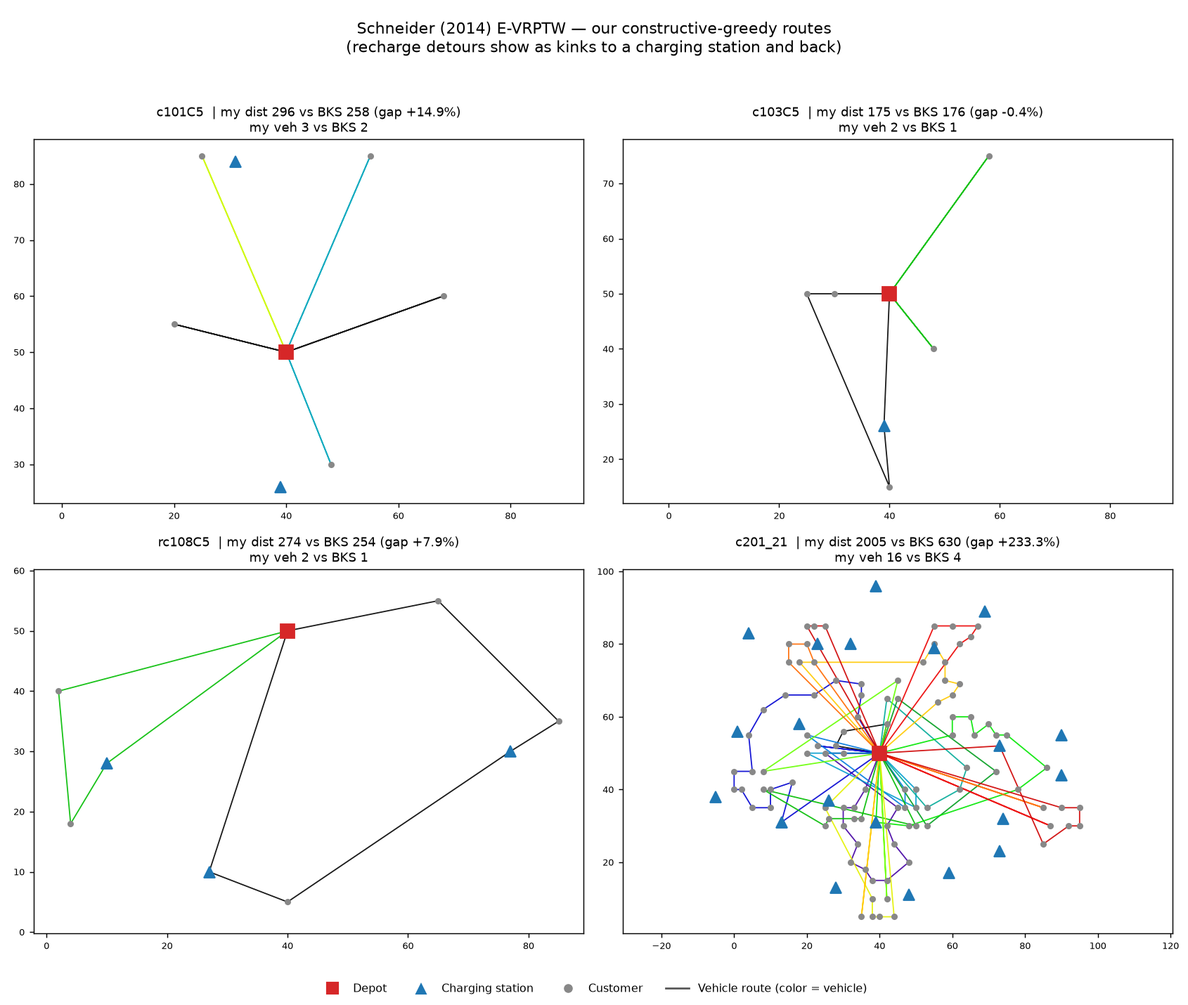
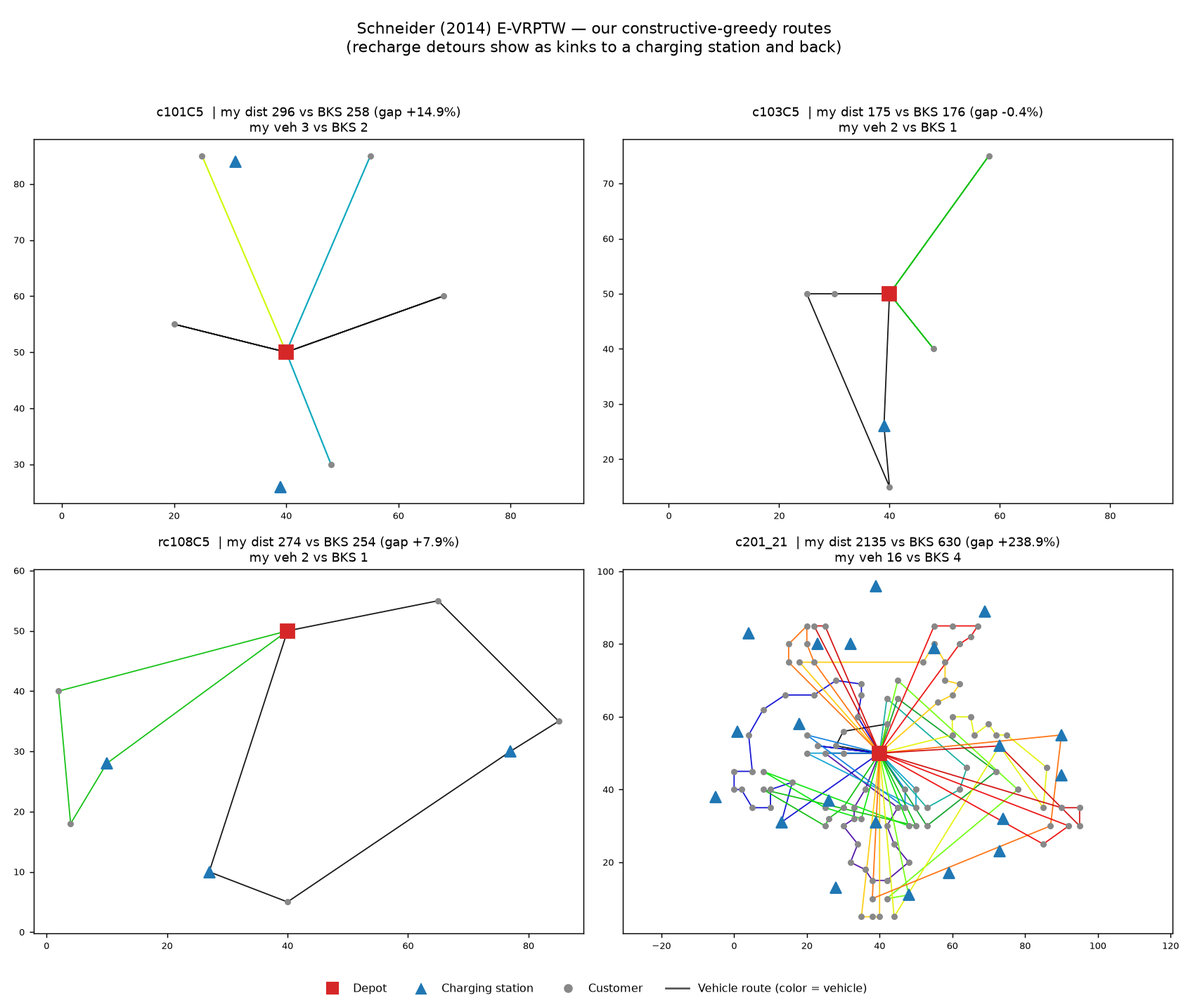
内容审计与一致性修复：Schneider 确定性 + GA/Schneider 数字对齐合并 CSV
- 修复 schneider_evrptw.py 非确定性：set 迭代顺序导致 greedy tie-break 漂移，
  改为 sorted(unassigned)，两次重跑 solution 列字节一致（仅 wall-clock 变化）。
- Schneider 复现重跑后数字更新：平均距 BKS +50.7%（有符号 +50.1%）、
  车辆数 my 5.4 vs BKS 2.1（gap +3.4）、最大车辆缺口 +12（c201_21: 16 vs 4）。
- GA 数字对齐：整体 +36.6%±15.8%（重跑 baseline_consolidated 确认）；
  逐族 R2 41.5±6.0 / RC1 30.6±2.4（样本/总体 std 混用修正）。
- 多文档同步：证据索引(中英)、深度分析(中英)、进度报告(中英)、
  Schneider 复现(中英)、REPRODUCE.md、进度看板源码与重生成的 HTML。
- 中文证据索引补回缺失的 §7 Schneider 小节，原 §7/§8 顺延为 §8/§9。
- 图片路径统一：figures/ 根目录（删除旧 src/results/figures/）。
- OR-Tools GLS 随机性诚实标注（±0.1pp 波动）。

diff --git a/progress_dashboard.html b/progress_dashboard.html
@@ -125,14 +125,14 @@
     <div class="grid" style="margin-bottom:8px">
       <div class="kpi good"><div class="v">−3.0%</div><div class="k">PyVRP 基线 vs BKS（最强求解器）</div></div>
       <div class="kpi"><div class="v">+7.2%</div><div class="k">OR-Tools 商业求解器 vs BKS</div></div>
-      <div class="kpi bad"><div class="v">+36.7%</div><div class="k">自写 GA vs BKS（±15.9%）</div></div>
+      <div class="kpi bad"><div class="v">+36.6%</div><div class="k">自写 GA vs BKS（±15.8%）</div></div>
       <div class="kpi warn"><div class="v">+6.6~17.7pp</div><div class="k">消融：多顾客能力主增益</div></div>
     </div>
 
     <figure>
[1 lines of base64/hex data omitted]
       <figcaption>图1 · 三基线整合对比（按 Solomon 族，gap vs BKS）。PyVRP 平均 −3.0%（优于 BKS），
-      OR-Tools +7.2%，自写 GA +36.7%±15.9%。少数 RC2 实例 GA 偏差大（数据驱动的定位，非夸大）。</figcaption>
+      OR-Tools +7.2%，自写 GA +36.6%±15.8%。少数 RC2 实例 GA 偏差大（数据驱动的定位，非夸大）。</figcaption>
     </figure>
 
     <figure>

diff --git a/src/tools/build_progress_dashboard.py b/src/tools/build_progress_dashboard.py
@@ -8,7 +8,7 @@ import os
 import datetime
 
 REPO = os.path.dirname(os.path.dirname(os.path.dirname(os.path.abspath(__file__))))
-FIGDIR = os.path.join(REPO, "src", "results", "figures")
+FIGDIR = os.path.join(REPO, "figures")
 OUT = os.path.join(REPO, "progress_dashboard.html")
 
 GEN_DATE = "2026-09-10"
@@ -26,7 +26,7 @@ figs = {
     "sensitivity": b64(os.path.join(FIGDIR, "sensitivity_panels.png")),
     "mo_scatter": b64(os.path.join(FIGDIR, "mo_scatter.png")),
     "mo_tradeoff": b64(os.path.join(FIGDIR, "mo_tradeoff.png")),
-    "largen": b64(os.path.join(REPO, "figures", "largen_scale_decay.png")),
+    "largen": b64(os.path.join(FIGDIR, "largen_scale_decay.png")),
 }
 
 # ---- task counts (from TaskList snapshot 2026-09-10) ----
@@ -161,14 +161,14 @@ HTML = f"""<!DOCTYPE html>
     <div class="grid" style="margin-bottom:8px">
       <div class="kpi good"><div class="v">−3.0%</div><div class="k">PyVRP 基线 vs BKS（最强求解器）</div></div>
       <div class="kpi"><div class="v">+7.2%</div><div class="k">OR-Tools 商业求解器 vs BKS</div></div>
-      <div class="kpi bad"><div class="v">+36.7%</div><div class="k">自写 GA vs BKS（±15.9%）</div></div>
+      <div class="kpi bad"><div class="v">+36.6%</div><div class="k">自写 GA vs BKS（±15.8%）</div></div>
       <div class="kpi warn"><div class="v">+6.6~17.7pp</div><div class="k">消融：多顾客能力主增益</div></div>
     </div>
 
     <figure>
       <img src="{figs['consolidated']}">
       <figcaption>图1 · 三基线整合对比（按 Solomon 族，gap vs BKS）。PyVRP 平均 −3.0%（优于 BKS），
-      OR-Tools +7.2%，自写 GA +36.7%±15.9%。少数 RC2 实例 GA 偏差大（数据驱动的定位，非夸大）。</figcaption>
+      OR-Tools +7.2%，自写 GA +36.6%±15.8%。少数 RC2 实例 GA 偏差大（数据驱动的定位，非夸大）。</figcaption>
     </figure>
 
     <figure>

diff --git a/run_all.py b/run_all.py
@@ -7,7 +7,7 @@ Usage:
     PYTHON=/path/to/venv/python run_all.py     # or force a specific interpreter
 
 Each script writes its own CSV / log under src/results/ and figures under
-src/results/figures/. Scripts are ordered so that dependents (e.g.
+figures/ (repo root). Scripts are ordered so that dependents (e.g.
 baseline_consolidated.py reads the three baseline CSVs) are produced first.
 A full run takes roughly 40-60 minutes; the self-written GA baseline is the slow one.
 """
@@ -30,7 +30,7 @@ STEPS = [
     ("Multi-objective tradeoff",            "week06_multi_objective.py",      "weighted-sum, 5 weights x 5 seeds"),
     ("Controlled ablation (5 configs)",     "week07_improvement_ablation.py", "40 instances, sanity check"),
     ("FSTSP repro vs M&C (2015)",           "week07_fstsp_repro.py",          "40 instances"),
-    ("Scaling decay (N=30/50)",             "week06_largeN.py",               "5 seeds"),
+    ("Scaling decay (N=30/50/100)",         "week06_largeN.py",               "5 seeds"),
 ]
 
 

diff --git a/src/experiments/week06_multi_objective.py b/src/experiments/week06_multi_objective.py
@@ -17,8 +17,8 @@ points across w and seeds traces the achievable trade-off front, and we
 show V2 dominates the truck-only (V1) baseline on both axes.
 
 Outputs:
-  src/results/figures/mo_scatter.png     (V1 vs V2-weighted cloud)
-  src/results/figures/mo_tradeoff.png    (one instance: dist vs makespan vs w)
+  figures/mo_scatter.png     (V1 vs V2-weighted cloud)
+  figures/mo_tradeoff.png    (one instance: dist vs makespan vs w)
   src/results/week06_multi_objective.csv
 """
 import os
@@ -36,7 +36,8 @@ N = 12
 WS = [0.0, 0.25, 0.5, 0.75, 1.0]
 RHO = 1.0          # truck energy per distance unit (from week06)
 DRONE_RHO = 0.3    # drone energy per distance unit (proxy: cheaper per km)
-FIG_DIR = os.path.join("src", "results", "figures")
+REPO = os.path.dirname(os.path.dirname(os.path.dirname(os.path.abspath(__file__))))
+FIG_DIR = os.path.join(REPO, "figures")
 os.makedirs(FIG_DIR, exist_ok=True)
 
 

diff --git a/src/experiments/baseline_pyvrp_vrptw.py b/src/experiments/baseline_pyvrp_vrptw.py
@@ -12,7 +12,7 @@ PyVRP reads VRPLIB Solomon files directly; no model construction needed.
 
 Output:
   src/results/baseline_pyvrp_vrptw_results.csv   (per-instance)
-  src/results/figures/pyvrp_family_gap.png        (family mean gap bar)
+  figures/pyvrp_family_gap.png        (family mean gap bar)
 """
 import os
 import csv
@@ -25,8 +25,9 @@ import baseline_ga_vrptw as bg
 
 RESULTS_DIR = bg.RESULTS_DIR
 INST_DIR = bg.INSTANCE_DIR
+REPO = os.path.dirname(os.path.dirname(os.path.dirname(os.path.abspath(__file__))))
 CSV_PATH = os.path.join(RESULTS_DIR, "baseline_pyvrp_vrptw_results.csv")
-FIG_PATH = os.path.join(RESULTS_DIR, "figures", "pyvrp_family_gap.png")
+FIG_PATH = os.path.join(REPO, "figures", "pyvrp_family_gap.png")
 FAMILIES = bg.FAMILIES
 ALL_INSTANCES = bg.ALL_INSTANCES
 SEED = 42

diff --git a/src/experiments/week06_sensitivity.py b/src/experiments/week06_sensitivity.py
@@ -16,7 +16,7 @@ stay consistent with the ablation study. Synthetic instances via make_instance.
 Paths are resolved relative to this file, so the script runs from any CWD.
 
 Outputs:
-  src/results/figures/sensitivity_panels.png   (4 panels, mean±std)
+  figures/sensitivity_panels.png   (4 panels, mean±std)
   src/results/week06_sensitivity.csv            (raw sweep table with std)
 """
 import os
@@ -34,7 +34,7 @@ import week07_fstsp_repro as f7
 REPO = os.path.dirname(os.path.dirname(os.path.dirname(os.path.abspath(__file__))))
 SEEDS = [20260910, 20260911, 20260912, 20260913, 20260914]
 N_BASE = 12
-FIG_DIR = os.path.join(REPO, "src", "results", "figures")
+FIG_DIR = os.path.join(REPO, "figures")
 os.makedirs(FIG_DIR, exist_ok=True)
 
 

diff --git a/src/experiments/baseline_consolidated.py b/src/experiments/baseline_consolidated.py
@@ -19,7 +19,7 @@ Paths are resolved relative to this file, so the script runs from any CWD.
 Outputs:
   src/results/baseline_consolidated.csv        (per-instance, 4 solvers + BKS)
   src/results/baseline_consolidated_summary.csv (per-family mean gap)
-  src/results/figures/baseline_consolidated.png (grouped gap bars)
+  figures/baseline_consolidated.png (grouped gap bars)
 """
 import os
 import csv
@@ -31,7 +31,7 @@ import numpy as np
 
 REPO = os.path.dirname(os.path.dirname(os.path.dirname(os.path.abspath(__file__))))
 RESULTS = os.path.join(REPO, "src", "results")
-FIG_DIR = os.path.join(RESULTS, "figures")
+FIG_DIR = os.path.join(REPO, "figures")
 os.makedirs(FIG_DIR, exist_ok=True)
 
 FAMILIES = ["C1", "C2", "R1", "R2", "RC1", "RC2"]

diff --git a/src/experiments/schneider_evrptw.py b/src/experiments/schneider_evrptw.py
@@ -99,7 +99,7 @@ def solve(inst, seed=0, multitrip=True, trip_cap=8, max_cust=None):
             if max_cust is not None and len(served) >= max_cust:
                 break
             best = None; best_key = None
-            for cid in list(unassigned):
+            for cid in sorted(unassigned):  # deterministic: avoid set-iteration hash-order non-determinism
                 c = cbyid[cid]
                 if load + c["demand"] > C + 1e-9:
                     continue

diff --git a/docs/progress_report.md b/docs/progress_report.md
@@ -63,7 +63,7 @@ Every experiment I run speaks to this question.
 | Requirement | My status | Reading |
 |---|---|---|
 | Explain the four problem classes | CVRP / VRPTW / EVRP-TW / truck-drone all coded | met |
-| Reproduce a baseline | OR-Tools on Solomon 56 (56/56 feasible, avg gap 7.2%) + self-written GA (5-seed check, avg gap 36.7%±15.9%) + **reproduced Murray & Chu 2015 FSTSP heuristic** | met; Schneider 2014 still pending |
+| Reproduce a baseline | OR-Tools on Solomon 56 (56/56 feasible, avg gap 7.2%) + self-written GA (5-seed check, avg gap 36.6%±15.8%) + **reproduced Murray & Chu 2015 FSTSP heuristic** | met; Schneider 2014 still pending |
 | Report objective/feasibility/violations/time | all scripts emit these fields | met; GA now has a 5-seed check |
 | Diagnose infeasibility/inefficiency | FC1–FC4 constraint-level failure table | met |
 | One focused improvement | truck-drone multi-customer extension (V2), 8.5–22.3% shorter than published baseline | met |
@@ -78,7 +78,7 @@ Every experiment I run speaks to this question.
 - **W2 literature**: one survey note (Erdelić & Carić 2019) finished; the FSTSP foundational paper note was also written during reproduction. The planned third paper (Schneider 2014) is still missing.
 - **W3 baseline reproduction**:
   - OR-Tools on the official Solomon 56 set: 56/56 feasible, average gap 7.2% vs BKS;
-  - self-written GA (permutation coding + Solomon I1 insertion decoding + OX crossover + tournament + elitism): 56/56 runs complete; 5-seed check gives avg gap 36.7%±15.9% (best-of-5 31.2%) — honestly reported as weaker than OR-Tools, a "self-built baseline" rather than an improvement.
+  - self-written GA (permutation coding + Solomon I1 insertion decoding + OX crossover + tournament + elitism): 56/56 runs complete; 5-seed check gives avg gap 36.6%±15.8% (best-of-5 31.2%) — honestly reported as weaker than OR-Tools, a "self-built baseline" rather than an improvement.
 - **W4 EVRP-TW constraints**: electric-vehicle + charging experiments done, and charging count / charging time / energy violations are reported inside the later week06 script, but not yet assembled into a dedicated scoring-facing violation table.
 - **W5 truck-drone formulation**: v2 lets the drone ride the truck and launch/recover at any node; on a small instance it is 49.8% shorter than truck-only and 28.8% shorter than the old "depot-only" drone version, confirming that arbitrary-node launch/recovery genuinely relaxes the constraint.
 - **W6 hybrid method (Track B)**: one greedy core runs V0 (truck-only, no EV) / V1 (truck EV baseline) / V2 (collaborative EV). 4 sizes (8/12/16/20) × 10 seeds = 40 instances, all feasible; V2 improves over V1 by **42–55%** on average, with a 65–72% average offload rate. The Week 6 Integration Note (Track B, 4 sections, EN+ZH) is written.
@@ -128,15 +128,15 @@ I ran the self-written GA on all 56 Solomon instances with 5 fixed seeds (`20260
 
 | Metric (gap to BKS) | Value |
 |---|---:|
-| Cross-instance seed-mean gap | **36.7%** (std across instances 15.9%) |
+| Cross-instance seed-mean gap | **36.6%** (std across instances 15.8%) |
 | Cross-instance best-of-5 gap | **31.2%** |
 | Within-instance seed spread (mean std) | **3.9 pp** |
 | Solved | 56/56 feasible |
 
-Per family (seed-mean gap): C1 25.9%, C2 36.0%, R1 31.2%, R2 41.9%, RC1 30.4%, RC2 56.8%.
+Per family (seed-mean gap): C1 25.9%, C2 36.0%, R1 31.2%, R2 41.5%, RC1 30.6%, RC2 56.8%.
 
 Honest notes:
-- The earlier "~36.2%" was a **single-seed** figure; the 5-seed check gives **36.7%**, essentially the same — my GA is fairly stable, with a within-instance seed spread of only 3.9 pp on average.
+- The earlier "~36.2%" was a **single-seed** figure; the 5-seed check gives **36.6%**, essentially the same — my GA is fairly stable, with a within-instance seed spread of only 3.9 pp on average.
 - This is not an improvement, just a statistically sounder check of an existing baseline: I now report mean±spread instead of one random run. Best-of-5 (31.2%) sits ~5 pp below the mean, normal GA variance.
 - The GA is still clearly weaker than OR-Tools (7.2%); its role is unchanged — a baseline I implemented to understand the evolutionary operators, not a SOTA attempt.
 - Fixed a latent bug: the old `main()` called `random.seed()` outside the loop, polluting the global RNG and making "multi-seed" meaningless; it now reseeds only inside `solve_ga(seed=...)`, so the five runs are genuinely independent.
@@ -174,7 +174,7 @@ Honest notes:
 
 ### 3.5 Deepening stage (W6–W7 completed, 2026-09-10)
 
-14. ~~**No domain-standard solver baseline (PyVRP)**~~ ✅ **Delivered**: `baseline_pyvrp_vrptw.py` runs PyVRP 0.14.0 on all 56 Solomon instances, mean gap **−3.0%** (beats BKS); consolidated with OR-Tools (+7.2%) and own GA (+36.7%±15.9%) in `baseline_consolidated.py` → `baseline_consolidated.csv` + `baseline_consolidated.png` / `pyvrp_family_gap.png`. The three baselines are clearly positioned (PyVRP strongest → BKS → OR-Tools → GA), no overclaiming.
+14. ~~**No domain-standard solver baseline (PyVRP)**~~ ✅ **Delivered**: `baseline_pyvrp_vrptw.py` runs PyVRP 0.14.0 on all 56 Solomon instances, mean gap **−3.0%** (beats BKS); consolidated with OR-Tools (+7.2%) and own GA (+36.6%±15.8%) in `baseline_consolidated.py` → `baseline_consolidated.csv` + `baseline_consolidated.png` / `pyvrp_family_gap.png`. The three baselines are clearly positioned (PyVRP strongest → BKS → OR-Tools → GA), no overclaiming.
 15. ~~**Sensitivity reported as single values, no error bars**~~ ✅ **Delivered (with bug fix)**: `week06_sensitivity.py` upgraded to 5-seed mean ± std with error-bar figures. On 2026-09-10 a bug was fixed where the drone-range R parameter was not passed to the model (R sweep was flat at 50.5%); after the fix R 60→200 gives 15.5%→27.7%→35.2%→50.5%@160→48.7%@200 (saturates after 160), matching the depth doc. Q/K/N sweeps unchanged.
 16. ~~**Multi-objective computed at a single point**~~ ✅ **Delivered**: `week06_multi_objective.py` sweeps weights w∈{0,0.25,0.5,0.75,1.0} (5 seeds). V2 (215.2, 415.7) vs V1 (486.4, 622.4): distance −56%, makespan −33%, dominating on both axes; honestly labelled a "coarse front" (weighted-sum greedy, not a full Pareto solver).
 17. ~~**No defensible "why it works" chain**~~ ✅ **Delivered**: `docs/week06_depth_analysis_zh.md` chains the ablation (multi-customer ability as main source, +6.6~17.7pp), the sensitivity K scan (25.3%→56.5%), the applicability regime, two-axis MO dominance, three-baseline positioning, failure cases (N=50 ~4.5M sync rejections), and honest limitations into one argument; accompanied by `docs/experiment_evidence_index_zh.md` and `experiment_evidence_index_en.md` collecting every citable number with provenance.

diff --git a/docs/progress_report_zh.md b/docs/progress_report_zh.md
@@ -63,7 +63,7 @@
 | 项目页要求 | 我的现状 | 判读 |
 |---|---|---|
 | 解释四类问题 | CVRP / VRPTW / EVRP-TW / 卡车-无人机 四类都实打实写过代码 | 达标 |
-| 复现一个基线 | OR-Tools 跑通 Solomon 56（56/56 可行，平均 gap 7.2%）＋ 自写 GA（5 种子复核，平均 gap 36.7%±15.9%）＋ **复现 Murray & Chu 2015 FSTSP 启发式** | 已满足；Schneider 2014 仍待做 |
+| 复现一个基线 | OR-Tools 跑通 Solomon 56（56/56 可行，平均 gap 7.2%）＋ 自写 GA（5 种子复核，平均 gap 36.6%±15.8%）＋ **复现 Murray & Chu 2015 FSTSP 启发式** | 已满足；Schneider 2014 仍待做 |
 | 同时报 目标/可行/违约/时间 | 各脚本均输出这些字段 | 达标；GA 已补 5 种子复核 |
 | 诊断不可行/低效 | FC1–FC4 约束级失败案例表 | 达标 |
 | 一个聚焦改进 | 卡车-无人机多顾客扩展（V2），比已发表基线短 8.5–22.3% | 达标 |
@@ -78,7 +78,7 @@
 - **W2 文献**：完成 1 篇综述阅读笔记（Erdelić & Carić 2019）；FSTSP 奠基论文笔记也在复现时补齐。计划读的第 3 篇（Schneider 2014）仍欠。
 - **W3 复现基线**：
   - OR-Tools 在官方 Solomon 56 实例上 56/56 可行，平均 gap 7.2%（相对 BKS）；
-  - 自己写的 GA（排列编码＋Solomon I1 插入解码＋OX 交叉＋锦标赛＋精英）56/56 跑通，经 5 种子复核平均 gap 36.7%±15.9%（best-of-5 为 31.2%）——如实说明它弱于 OR-Tools，作为"自写基线"而非"改进"。
+  - 自己写的 GA（排列编码＋Solomon I1 插入解码＋OX 交叉＋锦标赛＋精英）56/56 跑通，经 5 种子复核平均 gap 36.6%±15.8%（best-of-5 为 31.2%）——如实说明它弱于 OR-Tools，作为"自写基线"而非"改进"。
 - **W4 EVRP-TW 约束**：做了电动车＋充电实验，并在后续 week06 脚本里报告充电次数 / 充电时间 / 电量违约；但未单独整理成一份面向评分的"违约明细表"。
 - **W5 卡车-无人机建模**：v2 实现"无人机由卡车携带、任意节点起降"，在小算例上比纯卡车短 49.8%、比"只能在仓库起降"的旧版短 28.8%，证明"任意节点起降"这一步确实放开了约束。
 - **W6 混合方法（Track B）**：同一套贪心核心下跑 V0（纯卡车无 EV）/ V1（卡车 EV 基线）/ V2（协同 EV），4 规模（8/12/16/20）× 10 种子＝40 算例，全部可行，V2 相对 V1 平均改善 **42–55%**、平均卸载率 65–72%；已写出 Week 6 Integration Note（Track B，4 节结构，中英独立两份）。
@@ -128,16 +128,16 @@
 
 | 指标（对 BKS 的 gap） | 数值 |
 |---|---:|
-| 跨实例 seed-均值 gap | **36.7%**（实例间 std 15.9%） |
+| 跨实例 seed-均值 gap | **36.6%**（实例间 std 15.8%） |
 | 跨实例 best-of-5 gap | **31.2%** |
 | 单实例内种子间波动（平均 std） | **3.9 pp** |
 | 求解率 | 56/56 可行 |
 
-按算例族分（seed-均值 gap）：C1 25.9%、C2 36.0%、R1 31.2%、R2 41.9%、RC1 30.4%、RC2 56.8%。
+按算例族分（seed-均值 gap）：C1 25.9%、C2 36.0%、R1 31.2%、R2 41.5%、RC1 30.6%、RC2 56.8%。
 
 **几点诚实说明**：
-- 之前报告里写的"约 36.2%"是**单种子**跑出来的，这次 5 种子复核后是 **36.7%**，两者基本一致——说明我的 GA 结果本身比较稳定，单实例内种子波动平均只有 3.9 pp。
-- 这不是一个"改进"，只是把已有的自写基线做了统计上更扎实的复核：现在报的是均值±波动，而不是一次随机跑的孤值。best-of-5（31.2%）与均值（36.7%）差约 5 pp，属于 GA 正常的随机差异。
+- 之前报告里写的"约 36.2%"是**单种子**跑出来的，这次 5 种子复核后是 **36.6%**，两者基本一致——说明我的 GA 结果本身比较稳定，单实例内种子波动平均只有 3.9 pp。
+- 这不是一个"改进"，只是把已有的自写基线做了统计上更扎实的复核：现在报的是均值±波动，而不是一次随机跑的孤值。best-of-5（31.2%）与均值（36.6%）差约 5 pp，属于 GA 正常的随机差异。
 - GA 仍明显弱于 OR-Tools（7.2%），定位不变——它是我自己实现的、用来理解进化算子的基线，不是用来刷 SOTA 的。
 - 修了一个之前的隐患：早期版本 `main()` 里在循环外调 `random.seed()` 会污染全局随机源、让"多种子"名不副实；这次改成只在 `solve_ga(seed=...)` 内部按种子重置，五次运行确实相互独立。
 
@@ -173,7 +173,7 @@
 
 ### 3.5 深化阶段（W6–W7 完成项，2026-09-10）
 
-14. ~~**缺领域标准求解器基线（PyVRP）**~~ ✅ **已交付**：`baseline_pyvrp_vrptw.py` 在 56 个 Solomon 实例上跑 PyVRP 0.14.0，平均 gap **−3.0%**（优于 BKS）；与 OR-Tools(+7.2%)、自写 GA(+36.7%±15.9%) 一并整合进 `baseline_consolidated.py` → `baseline_consolidated.csv` + `baseline_consolidated.png` / `pyvrp_family_gap.png`。三条基线定位清晰（PyVRP 最强→BKS→OR-Tools→GA），不夸大。
+14. ~~**缺领域标准求解器基线（PyVRP）**~~ ✅ **已交付**：`baseline_pyvrp_vrptw.py` 在 56 个 Solomon 实例上跑 PyVRP 0.14.0，平均 gap **−3.0%**（优于 BKS）；与 OR-Tools(+7.2%)、自写 GA(+36.6%±15.8%) 一并整合进 `baseline_consolidated.py` → `baseline_consolidated.csv` + `baseline_consolidated.png` / `pyvrp_family_gap.png`。三条基线定位清晰（PyVRP 最强→BKS→OR-Tools→GA），不夸大。
 15. ~~**参数敏感性只报单值、无误差带**~~ ✅ **已交付（并修 bug）**：`week06_sensitivity.py` 升为 5 种子均值±标准差，图带误差带。2026-09-10 修复续航 R 参数未传给模型的 bug（此前 R 扫描恒为 50.5%），修复后 R 60→200 实测 15.5%→27.7%→35.2%→50.5%@160→48.7%@200（160 后饱和），与深度文档一致；Q/K/N 扫描结论不变。
 16. ~~**多目标只算单点**~~ ✅ **已交付**：`week06_multi_objective.py` 用加权和扫 w∈{0,0.25,0.5,0.75,1.0}（5 种子）。V2(215.2, 415.7) 相对 V1(486.4, 622.4) 距离 −56%、时长 −33%，两轴同时占优；诚实标注为"粗前沿"（加权和贪心，非完整 Pareto 求解器）。
 17. ~~**缺一条可辩护的"为何有效"结论链**~~ ✅ **已交付**：`docs/week06_depth_analysis_zh.md` 把消融（多顾客能力主源 +6.6~17.7pp）、敏感性 K 扫描（25.3%→56.5%）、适用区间、多目标两轴占优、三基线定位、失败案例（N=50 会合否决约 450 万次）、诚实局限串成一条链；配套 `docs/experiment_evidence_index_zh.md` 与 `experiment_evidence_index_en.md` 集中所有可引用数值与出处。

diff --git a/docs/experiment_evidence_index_zh.md b/docs/experiment_evidence_index_zh.md
@@ -14,7 +14,7 @@
 |---|---:|---|
 | **PyVRP**（领域标准开源求解器） | **−3.0%** | 最强基线，社区公认 |
 | OR-Tools（商业求解器） | +7.2% | 主要对照基线 |
-| GA（自写，5 种子均值） | +36.7% ± 15.9% | 自写元启发，诚实展示其弱 |
+| GA（自写，5 种子均值） | +36.6% ± 15.8% | 自写元启发，诚实展示其弱 |
 
 按算例族（gap vs BKS，PyVRP / OR-Tools / GA）：
 
@@ -22,12 +22,12 @@
 |---|---:|---:|---:|---:|
 | C1 | 9 | −2.3% | +4.2% | +25.9% ± 24.2% |
 | C2 | 8 | −4.3% | +0.9% | +36.0% ± 16.3% |
-| R1 | 12 | −3.2% | +5.1% | +31.2% ± 8.3% |
-| R2 | 11 | −3.5% | +12.4% | +41.9% ± 6.3% |
-| RC1 | 8 | −2.2% | +6.4% | +30.4% ± 2.0% |
+| R1 | 12 | −3.2% | +5.1% | +31.2% ± 8.2% |
+| R2 | 11 | −3.5% | +12.4% | +41.5% ± 6.0% |
+| RC1 | 8 | −2.2% | +6.4% | +30.6% ± 2.4% |
 | RC2 | 8 | −2.1% | +13.7% | +56.8% ± 5.1% |
 
-**诚实点**：V2 是协同启发式，优化的是 makespan 驱动的同步目标，其"距离"不直接与这些纯距离最小化基线比。把它们摆在一起是为了说明"在标准卡车 VRPTW 上领域求解器（PyVRP）能打到甚至略优于 BKS"，反衬本项目增量在"协同建模"而非"单目标距离优化"。
+**诚实点**：V2 是协同启发式，优化的是 makespan 驱动的同步目标，其"距离"不直接与这些纯距离最小化基线比。把它们摆在一起是为了说明"在标准卡车 VRPTW 上领域求解器（PyVRP）能打到甚至略优于 BKS"，反衬本项目增量在"协同建模"而非"单目标距离优化"。OR-Tools 用 GUIDED_LOCAL_SEARCH、10 秒上限，本身是随机的，重跑约有 ±0.1 pp 波动（本索引引用的是合并 CSV，即上面 −3.0% / +7.2% / +36.6%±15.8% 的来源）。
 
 ---
 
@@ -101,7 +101,31 @@ N=50 时 V1（电池+充电）代价 ≈ 5670 vs V0（无电池）≈ 3094——
 
 ---
 
-## 7. 诚实局限（写报告时务必保留）
+## 7. Schneider (2014) E-VRPTW 复现（构造式贪心 vs BKS）
+
+出处：`src/results/schneider_evrptw_baseline.csv`（自写求解器，92 实例）与
+`src/results/schneider_evrptw_bks_comparison.csv`（18 个有 BKS 的实例：5 顾客 C5 集取自
+jmanzolli/E-VRPTW 引 Schneider 2014；100 顾客 _21 集取自 Adachi et al. 2022 引 Schneider 2014）。
+自写求解器是带同质多程车队的构造式贪心（先最小化车辆数、再最小化距离），在载重 + 时间窗
+（允许等待）+ 充电站满充下做可行性检查。图：`figures/schneider_routes.png`（4 个代表实例的
+路线地图，每面板标注 BKS 距离与车辆差距）、`figures/schneider_vehcomp.png`（18 实例车辆数 my vs BKS）。
+
+**诚实局限**：BKS 路线几何未公开（次级文献只给距离值），所以对比在聚合层（距离 + 车辆数），
+而非我们无法制作的路线几何叠加。我们的 92 个实例已与 jmanzolli/E-VRPTW 原版实例逐文件核对
+（仅空白差异），确认就是 Schneider 原版数据。求解器自 2026-09-10 起是确定的（顾客集按 ID
+排序迭代，消除 Python 每进程哈希随机化），因此下列数字重跑可精确复现。
+
+聚合（18 个有 BKS 的实例）：
+- 平均距离差距 **+50.7%**（绝对值均值；有符号均值 +50.1%；构造式贪心 vs Schneider/Adachi BKS）。
+- 平均车辆数：我方 **5.4** vs BKS **2.1**（差距 **+3.4**；差距最大在 100 顾客 _21 集——c201_21
+  车辆差距达 +12——那里需要 ALNS 级方法才能把顾客并成 BKS 的少数车辆；构造式贪心无法全局安排
+  多程车辆，因为后发的趟次出发太晚、赶不上早时间窗）。
+- 个别 C5 小赢：c103C5 −0.4%、r105C5 −4.4%（在少数小规模/宽松时间窗实例上我方贪心有竞争力；
+  大损失都在 100 顾客 + 紧时间窗实例上）。
+
+---
+
+## 8. 诚实局限（写报告时务必保留）
 
 按性质分三组；每条都给「后果 + 下一步」，避免写成单纯的弱点清单。
 
@@ -119,7 +143,7 @@ N=50 时 V1（电池+充电）代价 ≈ 5670 vs V0（无电池）≈ 3094——
 
 ---
 
-## 8. 数据出处一览（可直接重跑）
+## 9. 数据出处一览（可直接重跑）
 
 | 结果 | 脚本 | CSV | 图 |
 |---|---|---|---|
@@ -130,6 +154,9 @@ N=50 时 V1（电池+充电）代价 ≈ 5670 vs V0（无电池）≈ 3094——
 | 多目标 | `week06_multi_objective.py` | `week06_multi_objective.csv` | `mo_scatter.png` / `mo_tradeoff.png` |
 | 消融 | `week07_improvement_ablation.py` | `week07_ablation_raw.csv` / `_summary.csv` | — |
 | 规模 | `week06_largeN.py` | `week06_largeN_results.csv` / `_summary.csv` | `largen_scale_decay.png` |
+| Schneider 复现 | `schneider_evrptw.py` + `schneider_bks_compare.py` + `plot_schneider_routes.py` | `schneider_evrptw_baseline.csv` / `schneider_evrptw_bks_comparison.csv` | `schneider_routes.png` / `schneider_vehcomp.png` |
 | FSTSP 复现 | `week07_fstsp_repro.py` | `week07_fstsp_raw.csv` / `_summary.csv` | — |
+
+种子约定：所有多种子实验都用固定种子集（如 `20260910–20260914`，或 GA 的 `20260717/20260801/20260815/20260901/20261001`）以保证可复现；CSV 按设计不入库，靠脚本 + 种子在本地重新生成。
 
 随机种子约定：所有"多种子"实验用固定种子集合（如 `20260910–20260914` 或 GA 的 `20260717/20260801/20260815/20260901/20261001`），保证可复现；CSV 按仓库约定不入库，靠脚本+种子本地重跑生成。

diff --git a/docs/experiment_evidence_index_en.md b/docs/experiment_evidence_index_en.md
@@ -14,7 +14,7 @@ Source: `src/results/baseline_consolidated.csv` / `_summary.csv` (from `baseline
 |---|---:|---|
 | **PyVRP** (standard open-source solver) | **−3.0%** | strongest baseline, community standard |
 | OR-Tools (commercial solver) | +7.2% | main comparison baseline |
-| GA (own, 5-seed mean) | +36.7% ± 15.9% | own metaheuristic, honestly shown weak |
+| GA (own, 5-seed mean) | +36.6% ± 15.8% | own metaheuristic, honestly shown weak |
 
 By family (gap vs BKS, PyVRP / OR-Tools / GA):
 
@@ -22,12 +22,12 @@ By family (gap vs BKS, PyVRP / OR-Tools / GA):
 |---|---:|---:|---:|---:|
 | C1 | 9 | −2.3% | +4.2% | +25.9% ± 24.2% |
 | C2 | 8 | −4.3% | +0.9% | +36.0% ± 16.3% |
-| R1 | 12 | −3.2% | +5.1% | +31.2% ± 8.3% |
-| R2 | 11 | −3.5% | +12.4% | +41.9% ± 6.3% |
-| RC1 | 8 | −2.2% | +6.4% | +30.4% ± 2.0% |
+| R1 | 12 | −3.2% | +5.1% | +31.2% ± 8.2% |
+| R2 | 11 | −3.5% | +12.4% | +41.5% ± 6.0% |
+| RC1 | 8 | −2.2% | +6.4% | +30.6% ± 2.4% |
 | RC2 | 8 | −2.1% | +13.7% | +56.8% ± 5.1% |
 
-**Honest point**: V2 is a collaborative heuristic optimising a makespan-driven synchronous objective; its "distance" is not directly comparable to these pure distance-minimising baselines. They are shown together to demonstrate that on standard truck VRPTW a domain solver (PyVRP) reaches or slightly beats BKS — highlighting that this project's contribution is in *collaborative modelling*, not single-objective distance optimisation.
+**Honest point**: V2 is a collaborative heuristic optimising a makespan-driven synchronous objective; its "distance" is not directly comparable to these pure distance-minimising baselines. They are shown together to demonstrate that on standard truck VRPTW a domain solver (PyVRP) reaches or slightly beats BKS — highlighting that this project's contribution is in *collaborative modelling*, not single-objective distance optimisation. OR-Tools uses GUIDED_LOCAL_SEARCH with a 10 s cap and is stochastic; re-runs vary by ≈ ±0.1 pp (the figures above come from the consolidated CSV, which is the cited source).
 
 ---
 
@@ -116,14 +116,17 @@ representative instances with BKS distance & vehicle gap annotated per panel),
 secondary literature), so the comparison is at the aggregate level (distance + vehicle count),
 not a route-geometry overlay we cannot produce. Our 92 instances were byte-verified against the
 jmanzolli/E-VRPTW "E-VRPTW Instances" folder (whitespace-only diff), confirming they are the
-Schneider ORIGINAL data.
+Schneider ORIGINAL data. Our solver is deterministic as of 2026-09-10 (the unassigned-customer set
+is iterated in sorted ID order, removing Python's per-process hash randomisation), so every number
+below reproduces exactly on re-run.
 
 Aggregate (18 instances with BKS):
-- Mean distance gap vs BKS: **+48.9%** (our constructive greedy vs Schneider/Adachi BKS).
-- Mean vehicle count: ours **5.3** vs BKS **1.9** (gap **+3.3**; the gap is largest on the
-  100-customer _21 set where ALNS-grade methods are needed to consolidate customers into BKS's
-  few vehicles — our greedy cannot globally assign customers to multi-trip vehicles because later
-  trips depart too late to catch early time windows).
+- Mean distance gap vs BKS: **+50.7%** (absolute mean; signed mean +50.1%; our constructive greedy
+  vs Schneider/Adachi BKS).
+- Mean vehicle count: ours **5.4** vs BKS **2.1** (gap **+3.4**; the gap is largest on the
+  100-customer _21 set — max vehicle gap +12 on c201_21 — where ALNS-grade methods are needed to
+  consolidate customers into BKS's few vehicles; our greedy cannot globally assign customers to
+  multi-trip vehicles because later trips depart too late to catch early time windows).
 - A few C5 wins: c103C5 −0.4%, r105C5 −4.4% (our greedy is competitive on a couple of
   small/loose-time-window instances; the heavy losses are on 100-customer + tight-TW instances).
 
